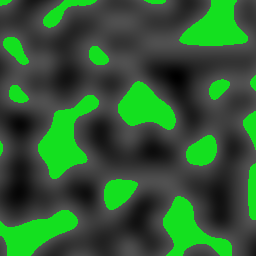
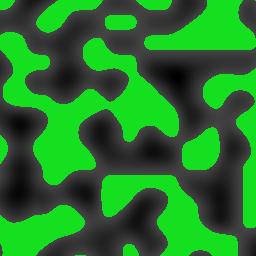
street fix

diff --git a/worldgen-test/Assets/Scripts/Chunk.cs b/worldgen-test/Assets/Scripts/Chunk.cs
@@ -409,28 +409,16 @@ public class Chunk : MonoBehaviour
                     finalHeight = Mathf.RoundToInt(Mathf.Lerp(finalHeight, pathLevel, pathInfluence));
                 }
 
-                // Appiattimento della griglia stradale urbana (isStructuredBiome), incluse le
-                // strade principali più larghe: stessa griglia (UrbanGrid) usata da WorldManager
-                // per piazzare i lotti/edifici, così il terreno resta piatto sotto le strade
-                // indipendentemente dal rumore del bioma. Pesato per voxelT: se questo punto è
-                // ancora dal lato "vecchio" del blend (voxelT basso), niente appiattimento — le
-                // strade del bioma nuovo non devono comparire su terreno non ancora transizionato.
-                if (target.isStructuredBiome && voxelT > 0f)
-                {
-                    var sampleX = UrbanGrid.SampleAxis(worldX, urbanGrid);
-                    var sampleZ = UrbanGrid.SampleAxis(worldZ, urbanGrid);
-                    float distToStreet = Mathf.Min(
-                        sampleX.isStreet ? sampleX.distToEdge : float.MaxValue,
-                        sampleZ.isStreet ? sampleZ.distToEdge : float.MaxValue);
-                    float streetBlendWidth = Mathf.Max(pathBlendWidth * 0.35f, 3f);
-                    if (distToStreet < streetBlendWidth)
-                    {
-                        float streetBlendT    = Mathf.Clamp01(distToStreet / streetBlendWidth);
-                        float streetInfluence = (1f - Mathf.SmoothStep(0f, 1f, streetBlendT)) * voxelT;
-                        int streetLevel = Mathf.RoundToInt(target.baseTerrainHeight);
-                        finalHeight = Mathf.RoundToInt(Mathf.Lerp(finalHeight, streetLevel, streetInfluence));
-                    }
-                }
+                // NOTA: qui prima c'era un appiattimento fisico dell'altezza sotto la griglia
+                // stradale urbana (isStructuredBiome) — tirava finalHeight verso un livello piatto
+                // (target.baseTerrainHeight) in una banda attorno a ogni strada. Il blend tra
+                // terreno naturale (rumoroso) e banda piatta creava dislivelli/buche visibili
+                // proprio al bordo strada-lotto, specie su terreno collinare. La griglia (UrbanGrid)
+                // resta usata da WorldManager per piazzare lotti/edifici e qui sotto per la
+                // texturizzazione della strada (vedi "Rivestimento delle strade urbane" in
+                // Pass 2) — è diventata puramente concettuale per l'altezza: le strade seguono il
+                // terreno naturale, si riconoscono solo dalla texture uniforme, non da un piano
+                // scavato nel terreno.
 
                 HeightMap[x, z] = finalHeight;
             }
@@ -510,12 +498,15 @@ public class Chunk : MonoBehaviour
                     }
                 }
 
-                // Rivestimento delle strade urbane (isStructuredBiome): forza il tile "surface"
-                // puro (senza le patch di terra/fiori/cespugli usate sopra per i lotti), così le
-                // strade restano una pavimentazione uniforme invece di ereditare le variazioni
-                // pensate per il terreno naturale. "middle" non va bene qui: è il materiale di
+                // Rivestimento delle strade urbane (isStructuredBiome): forza il tile "rock"
+                // (pietra/pavimentazione — con fallback a deepTileID, stesso pattern usato sopra
+                // per la variabile "rock"), non "surface". "surface" era la stessa identica tile
+                // già usata di default per TUTTO il terreno non patchato (vedi "byte surfaceTile =
+                // surface;" sopra) — quindi la strada risultava visivamente indistinguibile dal
+                // resto del terreno, si toglievano solo le patch fiori/cespugli senza introdurre
+                // un materiale davvero diverso. "middle" resta scartato: è il materiale di
                 // sotto-superficie del bioma (spesso terra/erba), non pensato per essere visto in
-                // superficie, ed è quello che dava l'effetto "prato fiorito" sulla strada.
+                // superficie.
                 // Gating su voxelT >= 0.5: stessa soglia usata da WorldManager per decidere se un
                 // chunk è "abbastanza nuovo" da ricevere decorazioni del bioma nuovo — sotto quella
                 // soglia il punto è ancora considerato vecchio bioma, niente pavimentazione.
@@ -523,7 +514,7 @@ public class Chunk : MonoBehaviour
                 {
                     bool onStreet = UrbanGrid.SampleAxis(worldX, urbanGrid).isStreet
                                  || UrbanGrid.SampleAxis(worldZ, urbanGrid).isStreet;
-                    if (onStreet) surfaceTile = surface;
+                    if (onStreet) surfaceTile = rock;
                 }
 
                 int minHeight = Mathf.Max(0, finalHeight - 3);
